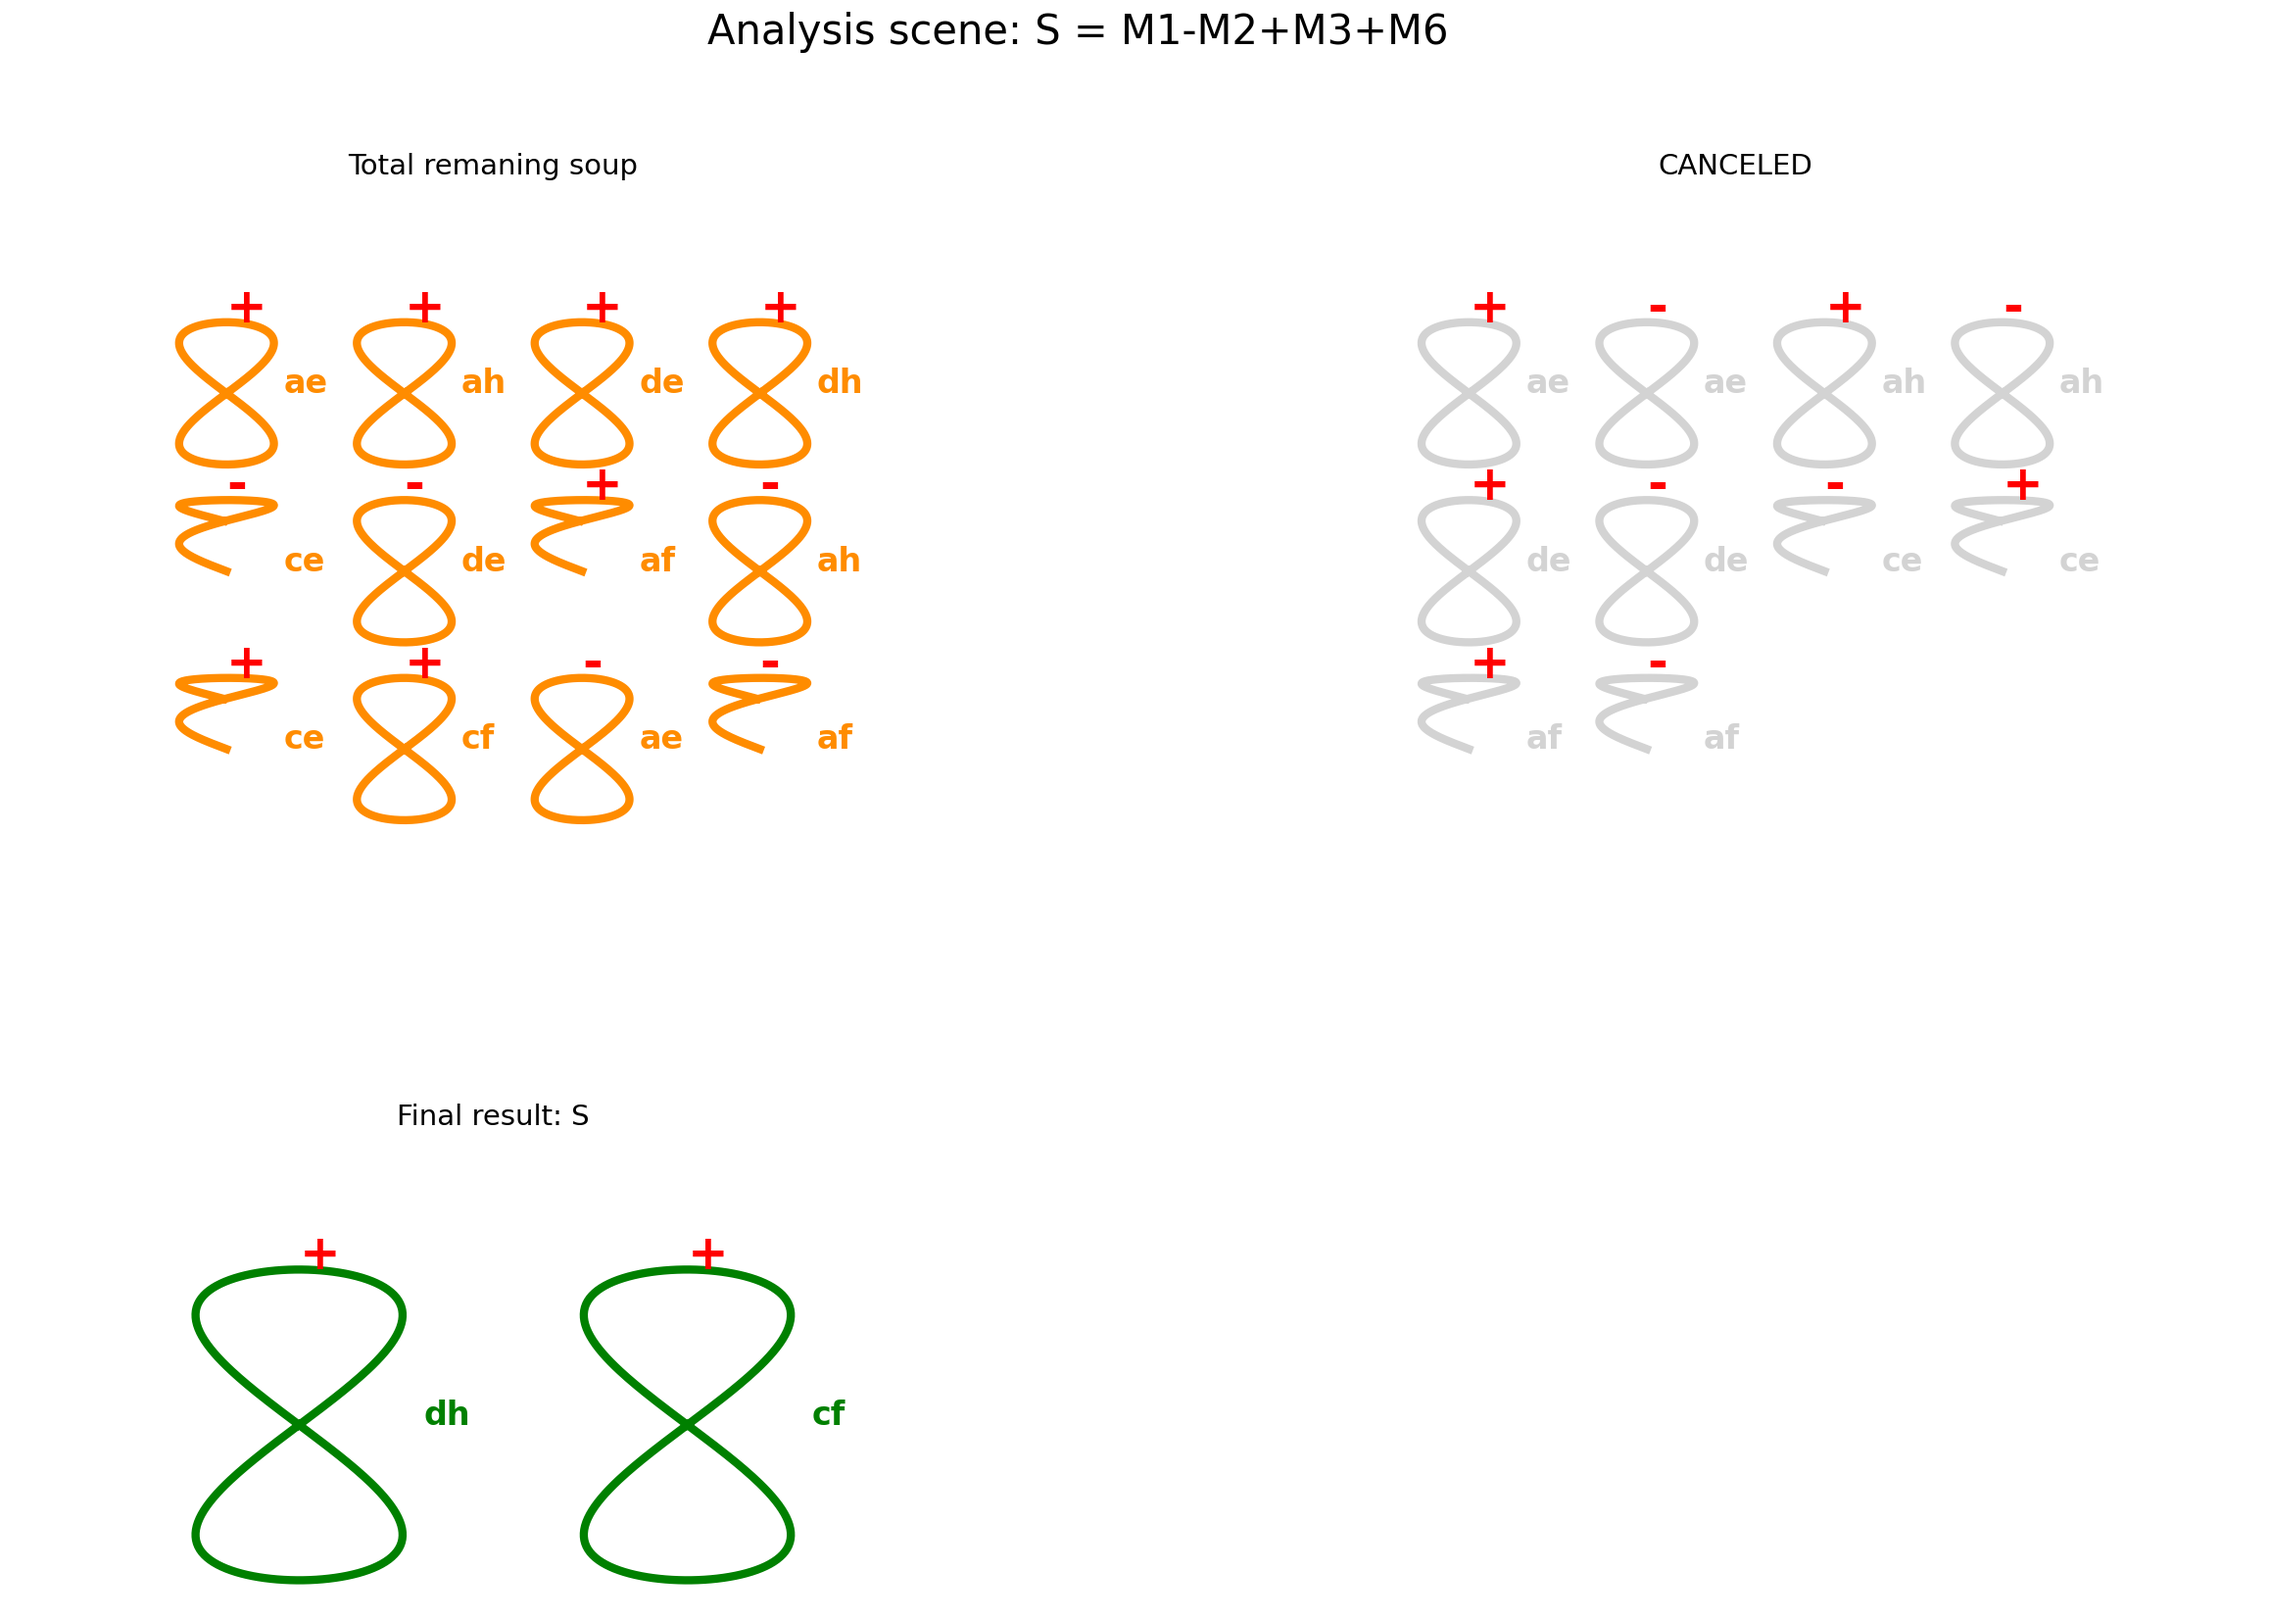
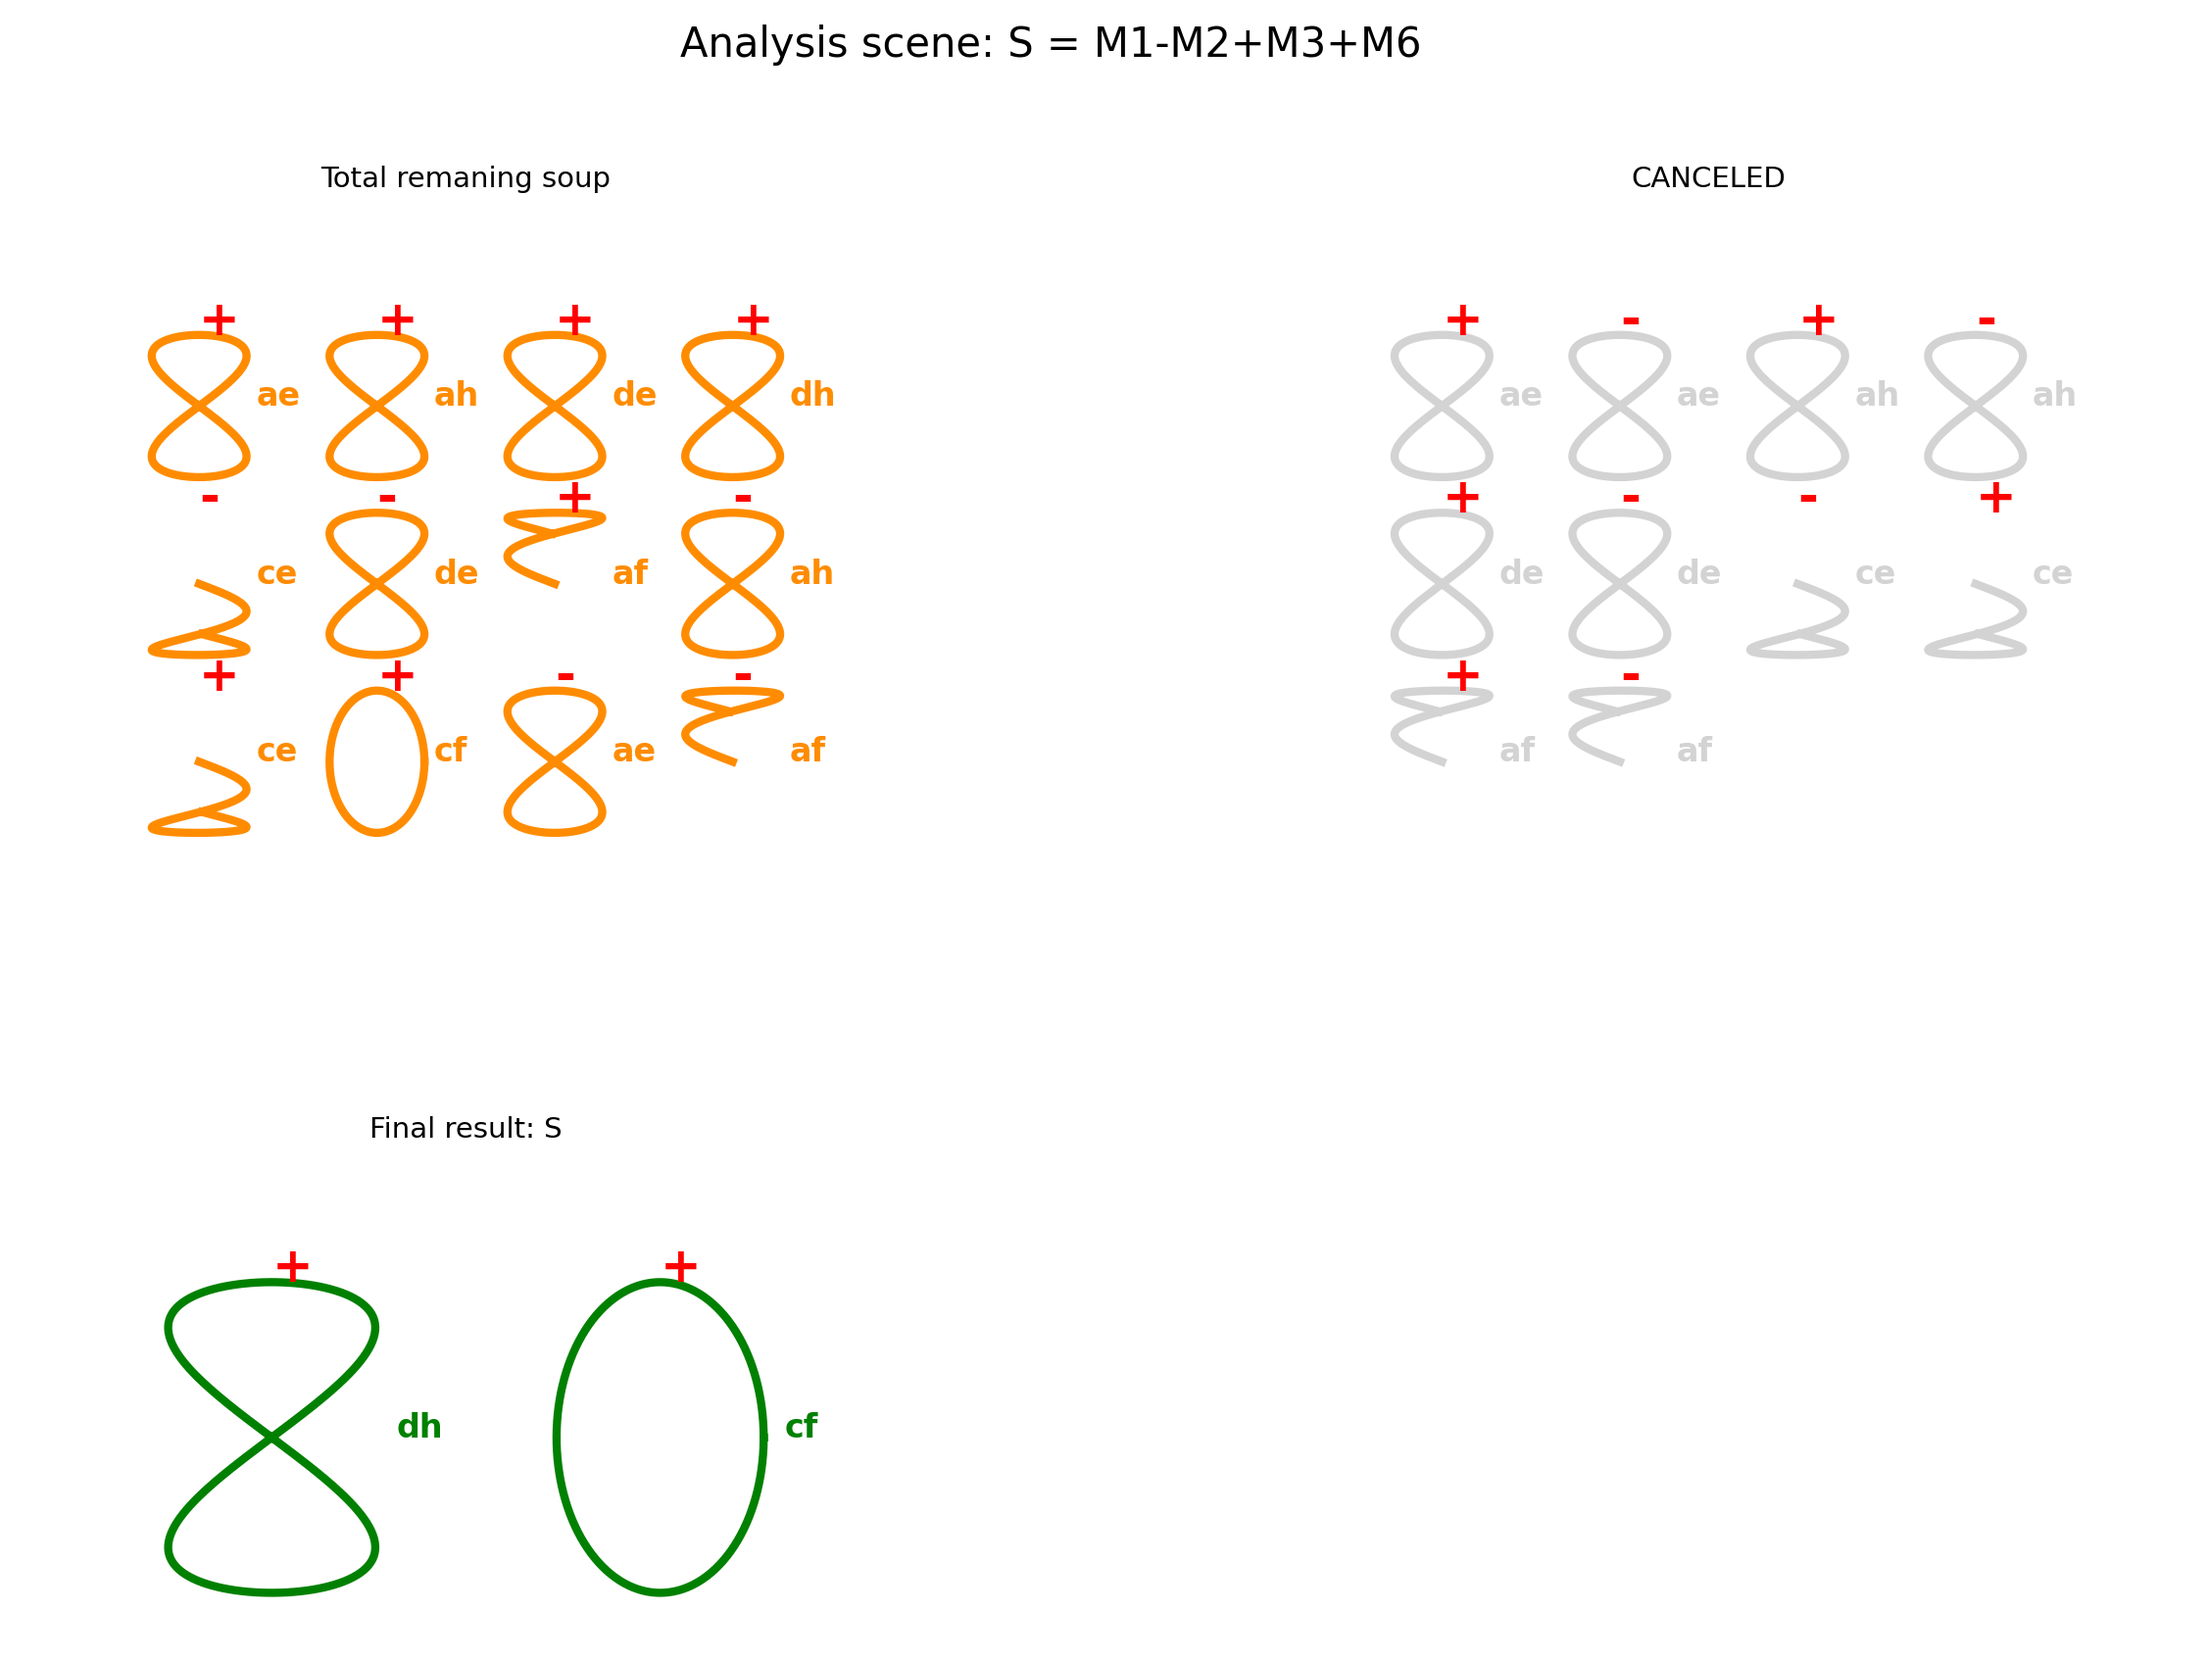
typo fix

diff --git a/lastik.py b/lastik.py
@@ -64,20 +64,20 @@ def collision(molecule1, molecule2):
     COLLISION_RULES = {
         ('single_1', 'single_1'): 'double_3', # a*e, a*h, d*e, d*h...
         ('single_1', 'single_2'): 'double_1', # a*b
-        ('single_1', 'single_3'): 'double_1', # a*c (symmetrical)
         ('single_1', 'single_4'): 'double_1', # a*f
-        ('single_1', 'single_5'): 'double_1', # a*g (symmetrical)
+        ('single_1', 'single_3'): 'double_2', # a*g (symmetrical)
         ('single_2', 'single_1'): 'double_5', # b*h
-        ('single_2', 'single_5'): 'double_6', # b*g
-        ('single_3', 'single_1'): 'double_5', # c*e (symmetrical)
-        ('single_3', 'single_4'): 'double_6', # c*f (symmetrical)
+        ('single_3', 'single_1'): 'double_6', # c*e (symmetrical)
+        ('single_3', 'single_4'): 'double_6', # c*e (symmetrical)
+        ('single_2', 'single_3'): 'single_1', # b*g or c*f (symmetrical)
+        ('single_3', 'single_2'): 'single_1', # b*g or c*f (symmetrical)
     }
     soup = []
     for atom1 in molecule1:
         for atom2 in molecule2:
             new_value = atom1.value + atom2.value
             new_potantial = '+' if atom1.potantial == atom2.potantial else '-'
-            key = tuple(sorted((atom1.shape_id, atom2.shape_id)))
+            key = tuple((atom1.shape_id, atom2.shape_id))
             new_shape_id = COLLISION_RULES.get(key, 'double_3') # Unknown Collision Produces Papyon by default
             soup.append(Atom(new_shape_id, new_value, new_potantial))
     return soup
@@ -93,8 +93,8 @@ def cancel(soup):
         else: remaining.append(atom)
     return remaining, canceled
 
-def flip_signs(molekul):
-    return [Atom(a.shape_id, a.value, '-' if a.potantial == '+' else '+') for a in molekul]
+def flip_signs(molecule):
+    return [Atom(a.shape_id, a.value, '-' if a.potantial == '+' else '+') for a in molecule]
 
 # ==============================================================================
 # 3. Visual World: Smart and Regular Drawing Engine
@@ -102,10 +102,10 @@ def flip_signs(molekul):
 class LissajousEngine:
     def __init__(self, ax): self.ax = ax
     def _get_recipe(self, shape_id): return SHAPE_DATABASE.get(shape_id)
-    def _ciz_tek_atom(self, atom, center, scale=1.0, color='darkorange'):
+    def _draw_single_atom(self, atom, center, scale=1.0, color='darkorange'):
         recipe = self._get_recipe(atom.shape_id)
         if not recipe: return
-        a,b,faz_pi = recipe.get('a',1), recipe.get('b',1), recipe.get('faz_pi',0)
+        a,b,faz_pi = recipe.get('a',1), recipe.get('b',1), recipe.get('fase_pi',0)
         t_range = recipe.get('t_range_pi', (0, 2))
         transform = recipe.get('transform', {})
         if transform.get('negate_a'): a *= -1
@@ -116,21 +116,21 @@ class LissajousEngine:
         self.ax.text(center[0] + scale*1.2, center[1], atom.value, fontsize=16, color=color, weight='bold')
         self.ax.text(center[0], center[1] + scale*1.5, atom.potantial, fontsize=24, color='red', weight='bold')
 
-    def draw_molecule_group(self, molekul, title="", color='darkorange'):
+    def draw_molecule_group(self, molecule, title="", color='darkorange'):
         self.ax.set_title(title, fontsize=14, pad=20)
-        if not molekul: self.ax.axis('off'); return
+        if not molecule: self.ax.axis('off'); return
         
         # Spacing factor has been increased to leave more range.
         spacing = 3.0 
         
-        num_atoms = len(molekul)
+        num_atoms = len(molecule)
         cols = int(np.ceil(np.sqrt(num_atoms))) if num_atoms > 1 else 1
         rows = int(np.ceil(num_atoms / cols)) if cols > 0 else 0
         x_pos = np.linspace(-spacing*(cols-1)/2, spacing*(cols-1)/2, cols) if cols > 1 else [0]
         y_pos = np.linspace(spacing*(rows-1)/2, -spacing*(rows-1)/2, rows) if rows > 1 else [0]
         positions = [(x,y) for y in y_pos for x in x_pos]
-        for i, atom in enumerate(molekul):
-            self._ciz_tek_atom(atom, center=positions[i], scale=0.8, color=color)
+        for i, atom in enumerate(molecule):
+            self._draw_single_atom(atom, center=positions[i], scale=0.8, color=color)
             
         # Set the view area according to Spacing
         self.ax.set_xlim(-cols*spacing/1.5, cols*spacing/1.5); self.ax.set_ylim(-rows*spacing/1.5, rows*spacing/1.5)
@@ -147,7 +147,10 @@ def visualize_P():
     M5_A = [Atom('single_1','a','+'), Atom('single_2','b','+')]; M5_B = [Atom('single_1','h','+')]
     M7_A = [Atom('single_2','b','+'), Atom('single_1','d','-')]; M7_B = [Atom('single_3','g','+'), Atom('single_1','h','+')]
     # Compute
-    m1=collision(M1_A,M1_B); m4=collision(M4_A,M4_B); m5=collision(M5_A,M5_B); m7=collision(M7_A,M7_B)
+    m1=collision(M1_A,M1_B); 
+    m4=collision(M4_A,M4_B); 
+    m5=collision(M5_A,M5_B); 
+    m7=collision(M7_A,M7_B);
     soup = m1 + m4 + flip_signs(m5) + m7
     sonuc, iptal = cancel(soup)
     # Visualize
@@ -160,7 +163,9 @@ def visualize_P():
 def visualize_Q():
     M3_A=[Atom('single_1','a','+')]; M3_B=[Atom('single_2','f','+'), Atom('single_1','h','-')]
     M5_A=[Atom('single_1','a','+'), Atom('single_2','b','+')]; M5_B=[Atom('single_1','h','+')]
-    m3=collision(M3_A,M3_B); m5=collision(M5_A,M5_B); soup=m3+m5
+    m3=collision(M3_A,M3_B); 
+    m5=collision(M5_A,M5_B); 
+    soup=m3+m5
     sonuc, iptal = cancel(soup)
     fig=plt.figure(figsize=(12,12)); fig.suptitle("Analysis scene: Q = M3+M5", fontsize=20)
     LissajousEngine(fig.add_subplot(2,2,1)).draw_molecule_group(m3, "Remainings From M3")
@@ -173,7 +178,9 @@ def visualize_R():
     # R = M2 + M4
     M2_A = [Atom('single_3','c','+'), Atom('single_1','d','+')]; M2_B = [Atom('single_1','e','+')]
     M4_A = [Atom('single_1','d','+')]; M4_B = [Atom('single_3','g','+'), Atom('single_1','e','-')]
-    m2=collision(M2_A,M2_B); m4=collision(M4_A,M4_B); soup=m2+m4
+    m2=collision(M2_A,M2_B); 
+    m4=collision(M4_A,M4_B); 
+    soup=m2+m4
     sonuc, iptal = cancel(soup)
     fig=plt.figure(figsize=(12,12)); fig.suptitle("Analysis scene: R = M2+M4", fontsize=20)
     LissajousEngine(fig.add_subplot(2,2,1)).draw_molecule_group(soup, "Total remaning soup")
@@ -187,7 +194,10 @@ def visualize_S():
     M2_A = [Atom('single_3','c','+'), Atom('single_1','d','+')]; M2_B = [Atom('single_1','e','+')]
     M3_A = [Atom('single_1','a','+')]; M3_B = [Atom('single_2','f','+'), Atom('single_1','h','-')]
     M6_A = [Atom('single_3','c','+'), Atom('single_1','a','-')]; M6_B = [Atom('single_1','e','+'), Atom('single_2','f','+')]
-    m1=collision(M1_A,M1_B); m2=collision(M2_A,M2_B); m3=collision(M3_A,M3_B); m6=collision(M6_A,M6_B)
+    m1=collision(M1_A,M1_B); 
+    m2=collision(M2_A,M2_B); 
+    m3=collision(M3_A,M3_B); 
+    m6=collision(M6_A,M6_B);
     soup = m1 + flip_signs(m2) + m3 + m6
     sonuc, iptal = cancel(soup)
     fig=plt.figure(figsize=(20,15)); fig.suptitle("Analysis scene: S = M1-M2+M3+M6", fontsize=20)
